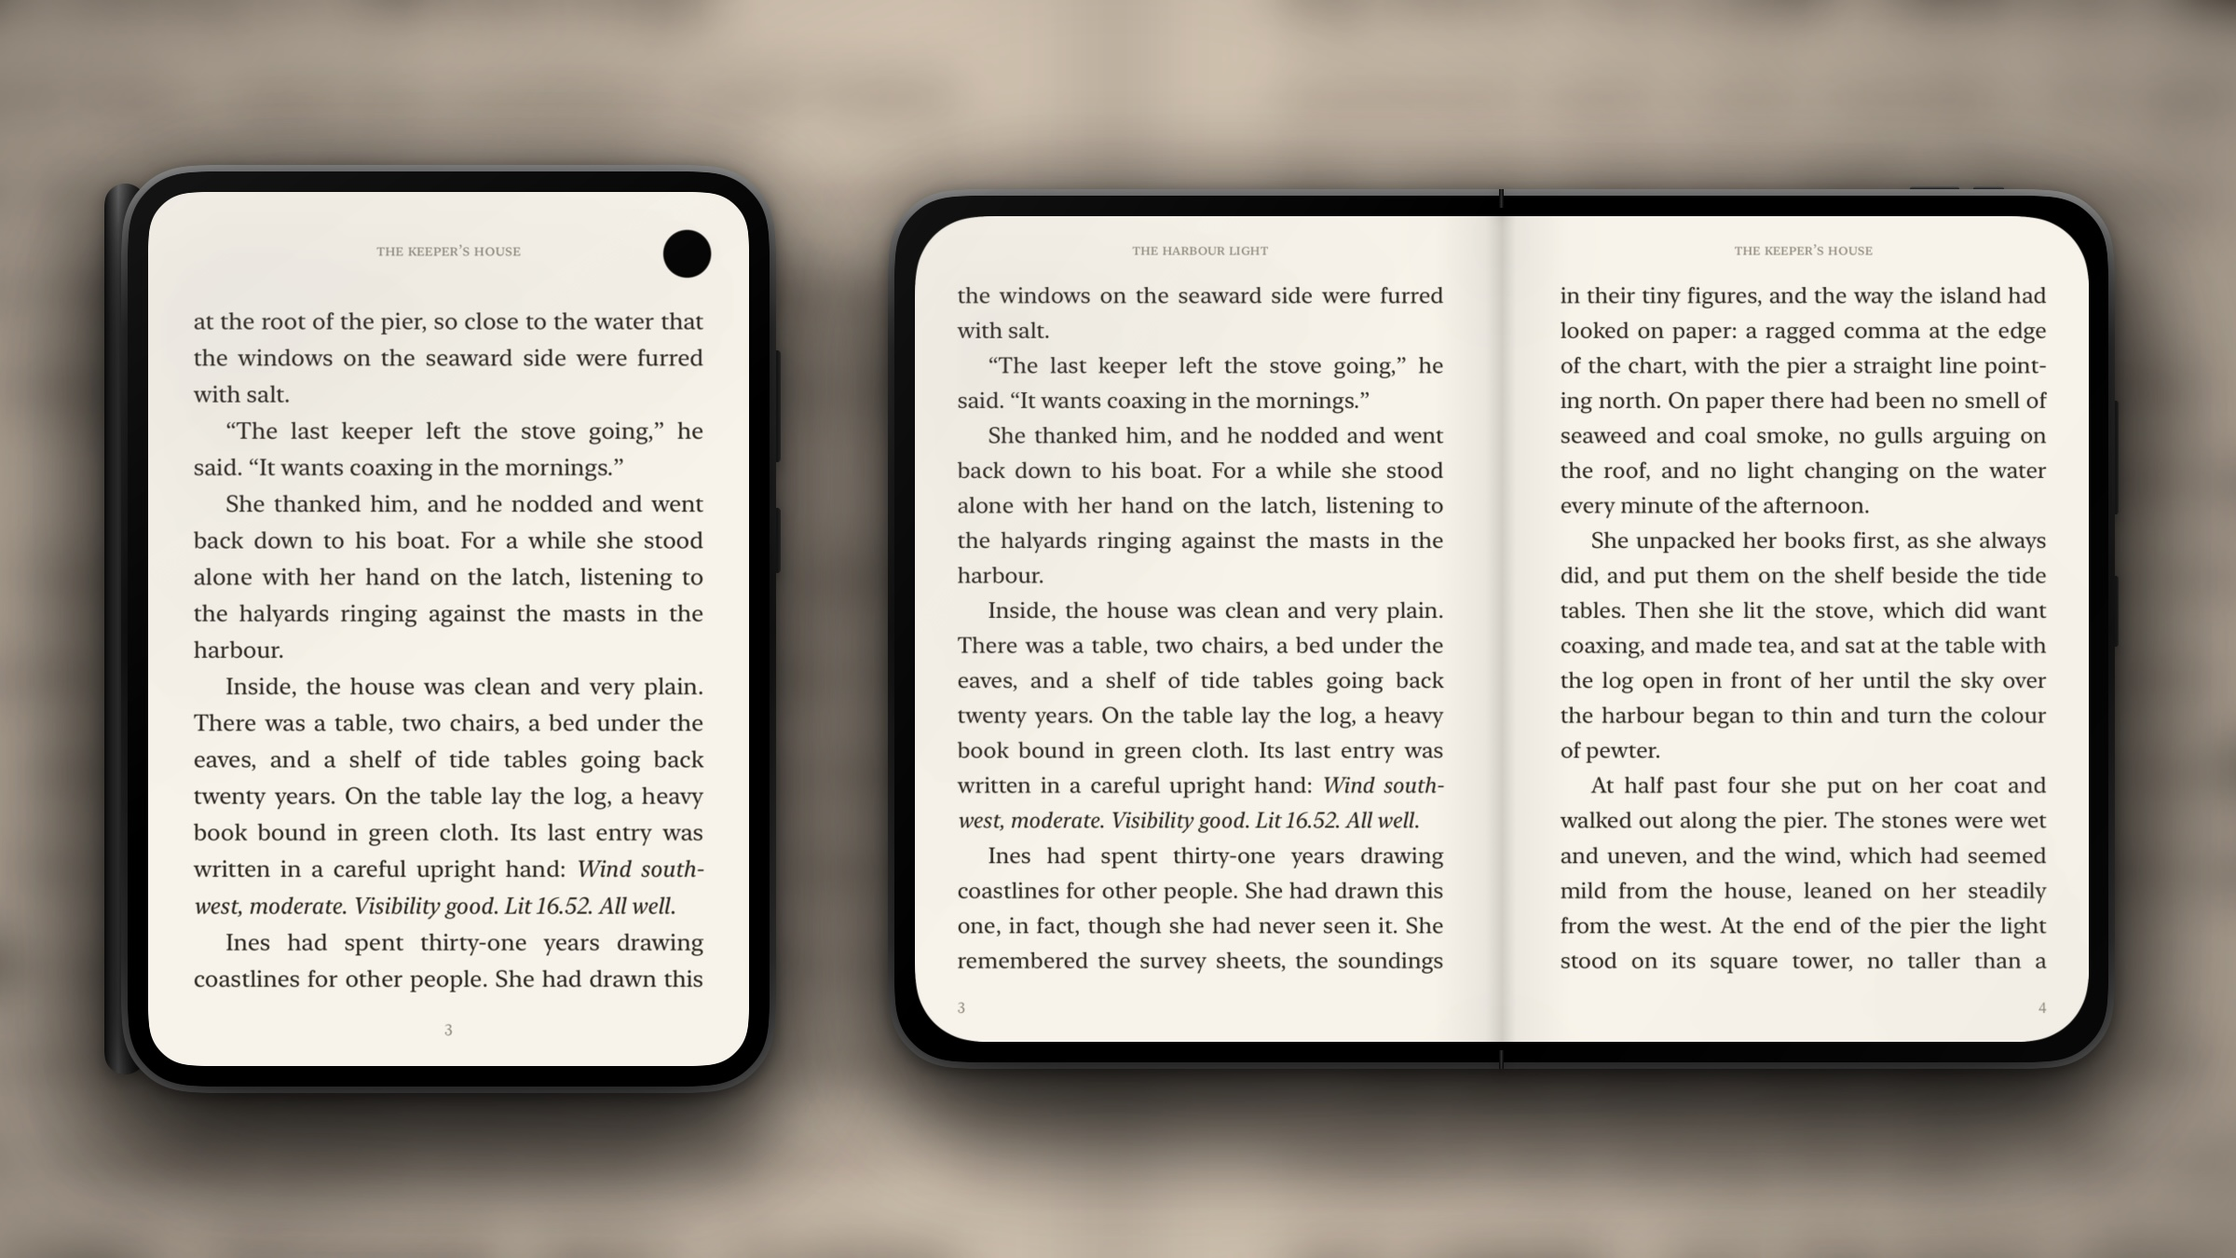
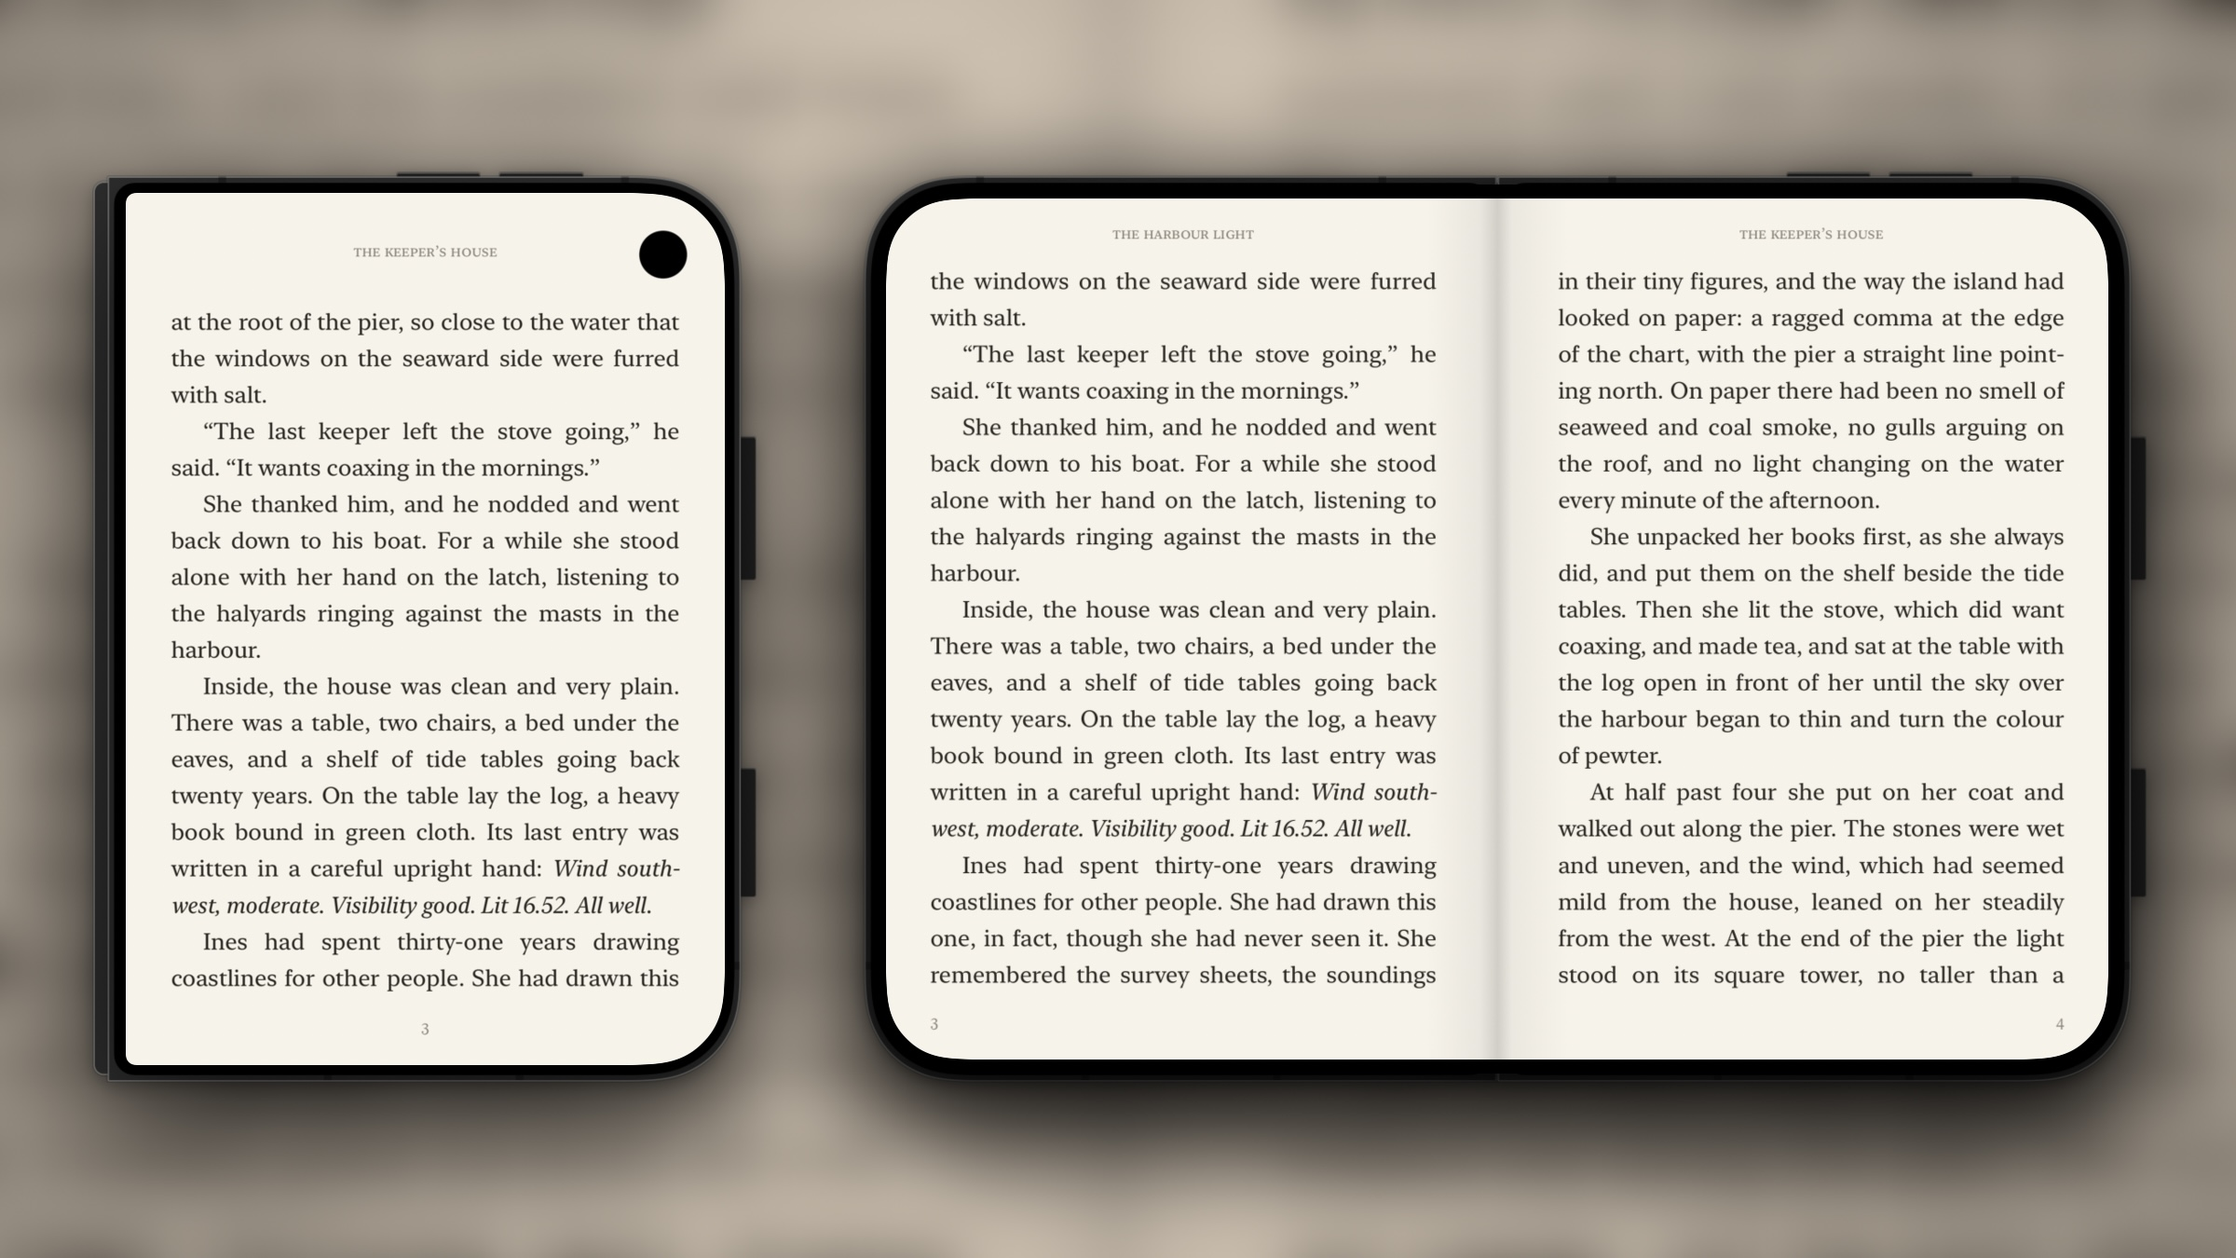
chore(marketing): use the simulator's duo chrome artwork and add a half-open shot

Changed region(s): [[0.0312, 0.0933, 0.9688, 0.9644], [0.1562, 0.1867, 0.2188, 0.2178]]

diff --git a/marketing/compose.swift b/marketing/compose.swift
@@ -1,5 +1,6 @@
-// Composes Twitter images from raw iPhone Duo simulator captures: a drawn Duo frame in front of the
-// same pages, enlarged and blurred. Run from the repository root:  swift marketing/compose.swift
+// Composes Twitter images from raw iPhone Duo simulator captures: the Duo, drawn from the simulator's own
+// device artwork, in front of the same pages enlarged and blurred.
+// Run from the repository root:  swift marketing/compose.swift
 import AppKit
 import SwiftUI
 
@@ -15,174 +16,196 @@ func load(_ name: String) -> NSImage {
     return image
 }
 
-// MARK: - Device parts
+// MARK: - Device
 
-/// Graphite edge band, lit from above.
-let rimGradient = LinearGradient(
-    stops: [
-        .init(color: Color(white: 0.62), location: 0),
-        .init(color: Color(white: 0.26), location: 0.18),
-        .init(color: Color(white: 0.12), location: 0.5),
-        .init(color: Color(white: 0.30), location: 0.85),
-        .init(color: Color(white: 0.55), location: 1),
-    ],
-    startPoint: .top,
-    endPoint: .bottom
-)
+/// The iPhone Duo's chrome as Xcode's DeviceKit ships it (vector PDFs), with sizes from its chrome.json and
+/// the device type's display corner radii. Units are device points.
+enum Duo {
+    static let chromeDirectory = URL(fileURLWithPath: "/Library/Developer/DeviceKit/Chrome/phone15.devicechrome/Contents/Resources")
 
-struct Button3D: View {
-    var length: CGFloat
-    var thickness: CGFloat = 4
-    var vertical = true
+    static func artwork(_ name: String) -> NSImage {
+        guard let image = NSImage(contentsOf: chromeDirectory.appending(path: "\(name).pdf")) else {
+            fatalError("Missing Duo chrome \(name).pdf; install the iOS 27.1 simulator runtime")
+        }
+        return image
+    }
 
-    var body: some View {
-        Capsule()
-            .fill(LinearGradient(
-                colors: [Color(white: 0.55), Color(white: 0.2), Color(white: 0.4)],
-                startPoint: vertical ? .leading : .top,
-                endPoint: vertical ? .trailing : .bottom
-            ))
-            .frame(width: vertical ? thickness : length, height: vertical ? length : thickness)
+    static let body = artwork("PhoneComposite")
+    static let volumeButton = artwork("Vol BTN")
+    static let powerButton = artwork("X_Power BTN")
+
+    /// The closed phone. The back half peeks out along the hinge on the leading edge.
+    static let half = CGSize(width: 514, height: 706)
+    static let outerScreen = CGRect(x: 26, y: 14, width: 466, height: 678)
+    static let innerScreen = CGSize(width: 951, height: 669)
+    /// The front half alone, without the back half's edge. Open, two of these meet at the hinge, where their
+    /// small corner radii leave the notch DeviceHub shows at the top and bottom.
+    static let frontWidth: CGFloat = 502.5
+    static var open: CGSize { CGSize(width: frontWidth * 2, height: half.height) }
+
+    static let volumeOffsets: [CGFloat] = [236, 316]
+    static let volumeSize = CGSize(width: 66, height: 16)
+    static let sideButtons: [(y: CGFloat, height: CGFloat)] = [(202, 113), (460, 102)]
+    static let buttonWidth: CGFloat = 16
+    /// How far a button stands out from the body.
+    static let buttonRise: CGFloat = 3.5
+}
+
+/// Positions a view by its top-leading corner inside a fixed-size frame.
+extension View {
+    func place(_ rect: CGRect, scale s: CGFloat) -> some View {
+        frame(width: rect.width * s, height: rect.height * s)
+            .offset(x: rect.minX * s, y: rect.minY * s)
     }
 }
 
-/// The Duo open flat: the inner screen inside a thin black border and a graphite rim, with the hinge seam
-/// showing at the middle of the top and bottom edges.
-struct OpenDuo: View {
-    let screen: NSImage
-    let width: CGFloat
+/// The buttons on the half that carries the outer screen: volume on the top edge, two on the outer side.
+/// They sit behind the body and stand out by `buttonRise`.
+struct DuoButtons: View {
+    /// Where the closed-phone artwork for this half starts.
+    let halfOriginX: CGFloat
+    let scale: CGFloat
 
     var body: some View {
-        let height = width * 669 / 951
-        let screenRadius = width * 36 / 951
-        let bezel = width * 0.017
-        let rim = width * 0.0055
-        let inner = screenRadius + bezel
-        let outer = inner + rim
-        let total = CGSize(width: width + 2 * (bezel + rim), height: height + 2 * (bezel + rim))
-
-        ZStack {
-            RoundedRectangle(cornerRadius: outer, style: .continuous).fill(rimGradient)
-            RoundedRectangle(cornerRadius: inner, style: .continuous)
-                .fill(Color.black)
-                .padding(rim)
-            Image(nsImage: screen)
-                .resizable()
-                .interpolation(.high)
-                .frame(width: width, height: height)
-                .clipShape(RoundedRectangle(cornerRadius: screenRadius, style: .continuous))
-            // Hinge seam where the two halves meet.
-            VStack {
-                seam(depth: rim + bezel * 0.6)
-                Spacer()
-                seam(depth: rim + bezel * 0.6)
+        let rightEdge = halfOriginX + Duo.half.width
+        ZStack(alignment: .topLeading) {
+            ForEach(Duo.volumeOffsets, id: \.self) { x in
+                Image(nsImage: Duo.volumeButton)
+                    .resizable()
+                    .place(CGRect(x: halfOriginX + x, y: 1 - Duo.buttonRise, width: Duo.volumeSize.width, height: Duo.volumeSize.height), scale: scale)
             }
-            // A faint sheen across the glass.
-            RoundedRectangle(cornerRadius: inner, style: .continuous)
-                .fill(LinearGradient(
-                    colors: [.white.opacity(0.07), .clear, .clear, .white.opacity(0.03)],
-                    startPoint: .topLeading,
-                    endPoint: .bottomTrailing
-                ))
-                .padding(rim)
-                .allowsHitTesting(false)
-        }
-        .frame(width: total.width, height: total.height)
-        .background(alignment: .trailing) {
-            VStack(spacing: total.height * 0.07) {
-                Button3D(length: total.height * 0.13)
-                Button3D(length: total.height * 0.08)
+            ForEach(Duo.sideButtons, id: \.y) { button in
+                Image(nsImage: Duo.powerButton)
+                    .resizable()
+                    .place(CGRect(x: rightEdge - 1 + Duo.buttonRise - Duo.buttonWidth, y: button.y, width: Duo.buttonWidth, height: button.height), scale: scale)
             }
-            .offset(x: 2.5, y: -total.height * 0.12)
         }
-        .background(alignment: .topTrailing) {
-            HStack(spacing: total.width * 0.012) {
-                Button3D(length: total.width * 0.04, vertical: false)
-                Button3D(length: total.width * 0.025, vertical: false)
-            }
-            .offset(x: -total.width * 0.09, y: -2.5)
-        }
-    }
-
-    private func seam(depth: CGFloat) -> some View {
-        Rectangle()
-            .fill(LinearGradient(colors: [Color(white: 0.02), Color(white: 0.18), Color(white: 0.02)], startPoint: .leading, endPoint: .trailing))
-            .frame(width: 3, height: depth)
     }
 }
 
-/// The Duo closed: the outer screen, with the folded spine along the leading edge.
 struct ClosedDuo: View {
     let screen: NSImage
-    let width: CGFloat
+    let scale: CGFloat
 
     var body: some View {
-        let height = width * 678 / 466
-        let screenRadius = width * 36 / 466
-        let bezel = width * 0.034
-        let rim = width * 0.011
-        let inner = screenRadius + bezel
-        let outer = inner + rim
-        let spine = width * 0.035
-        let total = CGSize(width: width + 2 * (bezel + rim), height: height + 2 * (bezel + rim))
-
-        ZStack {
-            RoundedRectangle(cornerRadius: outer, style: .continuous).fill(rimGradient)
-            RoundedRectangle(cornerRadius: inner, style: .continuous)
-                .fill(Color.black)
-                .padding(rim)
+        let s = scale
+        ZStack(alignment: .topLeading) {
+            DuoButtons(halfOriginX: 0, scale: s)
+            Image(nsImage: Duo.body)
+                .resizable()
+                .place(CGRect(origin: .zero, size: Duo.half), scale: s)
             Image(nsImage: screen)
                 .resizable()
                 .interpolation(.high)
-                .frame(width: width, height: height)
-                .clipShape(RoundedRectangle(cornerRadius: screenRadius, style: .continuous))
-            RoundedRectangle(cornerRadius: inner, style: .continuous)
-                .fill(LinearGradient(colors: [.white.opacity(0.08), .clear, .clear], startPoint: .topLeading, endPoint: .bottomTrailing))
-                .padding(rim)
-        }
-        .frame(width: total.width, height: total.height)
-        // The rounded spine of the folded hinge.
-        .background(alignment: .leading) {
-            RoundedRectangle(cornerRadius: spine, style: .continuous)
-                .fill(LinearGradient(
-                    colors: [Color(white: 0.08), Color(white: 0.45), Color(white: 0.2), Color(white: 0.05)],
-                    startPoint: .leading,
-                    endPoint: .trailing
+                .clipShape(UnevenRoundedRectangle(
+                    topLeadingRadius: 8 * s,
+                    bottomLeadingRadius: 8 * s,
+                    bottomTrailingRadius: 59 * s,
+                    topTrailingRadius: 59 * s,
+                    style: .continuous
                 ))
-                .frame(width: spine * 2, height: total.height * 0.96)
-                .offset(x: -spine * 0.8)
+                .place(Duo.outerScreen, scale: s)
         }
-        .background(alignment: .trailing) {
-            VStack(spacing: total.height * 0.05) {
-                Button3D(length: total.height * 0.12, thickness: 5)
-                Button3D(length: total.height * 0.07, thickness: 5)
-            }
-            .offset(x: 3, y: -total.height * 0.18)
-        }
+        .frame(width: Duo.half.width * s, height: Duo.half.height * s, alignment: .topLeading)
     }
 }
 
-/// The Duo half open in the book posture: each half turns about the hinge toward the viewer.
-struct BookDuo: View {
+struct OpenDuo: View {
     let screen: NSImage
-    let width: CGFloat
-    let angle: Double
+    let scale: CGFloat
+    /// 0 is flat. Above 0, the left half is folded away from the viewer: blurred and shaded, as DeviceHub
+    /// shows the Duo part-closed.
+    var fold: Double = 0
 
     var body: some View {
-        let device = OpenDuo(screen: screen, width: width)
-        let totalWidth = width * (1 + 2 * (0.017 + 0.0055))
-        let half = totalWidth / 2
-        HStack(spacing: 0) {
-            device
-                .frame(width: half, alignment: .leading)
+        let s = scale
+        let size = Duo.open
+        let spine = Duo.half.width - Duo.frontWidth
+        let screenRect = CGRect(
+            x: (size.width - Duo.innerScreen.width) / 2,
+            y: (size.height - Duo.innerScreen.height) / 2,
+            width: Duo.innerScreen.width,
+            height: Duo.innerScreen.height
+        )
+        let screenShape = RoundedRectangle(cornerRadius: 55 * s, style: .continuous)
+
+        ZStack(alignment: .topLeading) {
+            DuoButtons(halfOriginX: Duo.frontWidth - spine, scale: s)
+            // Left half: the artwork mirrored, keeping only the front half.
+            Image(nsImage: Duo.body)
+                .resizable()
+                .frame(width: Duo.half.width * s, height: Duo.half.height * s)
+                .scaleEffect(x: -1, y: 1)
+                .frame(width: Duo.frontWidth * s, alignment: .leading)
                 .clipped()
-                .overlay(LinearGradient(colors: [.clear, .black.opacity(0.18)], startPoint: .leading, endPoint: .trailing))
-                .rotation3DEffect(.degrees(angle), axis: (x: 0, y: 1, z: 0), anchor: .trailing, perspective: 0.55)
-            device
-                .frame(width: half, alignment: .trailing)
+            // Right half, the one with the buttons.
+            Image(nsImage: Duo.body)
+                .resizable()
+                .frame(width: Duo.half.width * s, height: Duo.half.height * s)
+                .frame(width: Duo.frontWidth * s, alignment: .trailing)
                 .clipped()
-                .overlay(LinearGradient(colors: [.black.opacity(0.28), .black.opacity(0.06)], startPoint: .leading, endPoint: .trailing))
-                .rotation3DEffect(.degrees(-angle), axis: (x: 0, y: 1, z: 0), anchor: .leading, perspective: 0.55)
+                .offset(x: Duo.frontWidth * s)
+            // The artwork's cutout is shaped for the outer screen; open, the black border runs unbroken
+            // around the inner screen and across the hinge.
+            RoundedRectangle(cornerRadius: 66 * s, style: .continuous)
+                .fill(Color.black)
+                .place(screenRect.insetBy(dx: -11, dy: -11), scale: s)
+            ZStack {
+                Image(nsImage: screen)
+                    .resizable()
+                    .interpolation(.high)
+                if fold > 0 {
+                    FoldedHalf(screen: screen, fold: fold, scale: s)
+                }
+            }
+            .clipShape(screenShape)
+            .place(screenRect, scale: s)
+        }
+        .frame(width: size.width * s, height: size.height * s, alignment: .topLeading)
+    }
+}
+
+/// The left half of the inner screen turned away from the viewer: out of focus, darker toward its outer edge
+/// and along the top and bottom where the panel bends away.
+struct FoldedHalf: View {
+    let screen: NSImage
+    let fold: Double
+    let scale: CGFloat
+
+    var body: some View {
+        GeometryReader { proxy in
+            let half = proxy.size.width / 2
+            ZStack(alignment: .leading) {
+                Image(nsImage: screen)
+                    .resizable()
+                    .frame(width: proxy.size.width, height: proxy.size.height)
+                    .blur(radius: 9 * scale * fold, opaque: true)
+                    .frame(width: half, height: proxy.size.height, alignment: .leading)
+                    .clipped()
+                LinearGradient(
+                    stops: [
+                        .init(color: .black.opacity(0.88 * fold), location: 0),
+                        .init(color: .black.opacity(0.55 * fold), location: 0.25),
+                        .init(color: .black.opacity(0.15 * fold), location: 0.62),
+                        .init(color: .black.opacity(0.02 * fold), location: 1),
+                    ],
+                    startPoint: .leading,
+                    endPoint: .trailing
+                )
+                .frame(width: half)
+                LinearGradient(
+                    stops: [
+                        .init(color: .black.opacity(0.55 * fold), location: 0),
+                        .init(color: .clear, location: 0.22),
+                        .init(color: .clear, location: 0.78),
+                        .init(color: .black.opacity(0.55 * fold), location: 1),
+                    ],
+                    startPoint: .top,
+                    endPoint: .bottom
+                )
+                .frame(width: half)
+                .mask(LinearGradient(colors: [.black, .black.opacity(0.2)], startPoint: .leading, endPoint: .trailing))
+            }
         }
     }
 }
@@ -253,20 +276,21 @@ MainActor.assumeIsolated {
     let night = load("open-night-contents")
     let library = load("open-paper-library")
     let sepia = load("open-sepia-appearance")
-    // The real half-open capture (with the system's crease blur) when there is one.
-    let book = NSImage(contentsOf: raw.appending(path: "open-paper-book.png")) ?? hero
 
-    render(Shot(background: hero) { OpenDuo(screen: hero, width: 1010) }, to: "01-spread")
+    let single: CGFloat = 1.06 // the open Duo about 1060 pt wide on a 1600 pt canvas
 
+    render(Shot(background: hero) { OpenDuo(screen: hero, scale: single) }, to: "01-spread")
+
+    // Both phones at the same scale, so the closed one reads as the same device folded.
     render(Shot(background: pageThree) {
-        HStack(alignment: .center, spacing: 80) {
-            ClosedDuo(screen: closed, width: 430)
-            OpenDuo(screen: pageThree, width: 840)
+        HStack(alignment: .center, spacing: 70) {
+            ClosedDuo(screen: closed, scale: 0.92)
+            OpenDuo(screen: pageThree, scale: 0.92)
         }
     }, to: "02-fold")
 
-    render(Shot(background: night, tone: 0.1, glow: 0.16) { OpenDuo(screen: night, width: 1010) }, to: "03-contents")
-    render(Shot(background: hero) { OpenDuo(screen: library, width: 1010) }, to: "04-library")
-    render(Shot(background: sepia) { OpenDuo(screen: sepia, width: 1010) }, to: "05-appearance")
-    render(Shot(background: book) { BookDuo(screen: book, width: 1000, angle: 24) }, to: "06-book-posture")
+    render(Shot(background: night, tone: 0.1, glow: 0.16) { OpenDuo(screen: night, scale: single) }, to: "03-contents")
+    render(Shot(background: hero) { OpenDuo(screen: library, scale: single) }, to: "04-library")
+    render(Shot(background: sepia) { OpenDuo(screen: sepia, scale: single) }, to: "05-appearance")
+    render(Shot(background: hero) { OpenDuo(screen: hero, scale: single, fold: 1) }, to: "06-half-open")
 }
